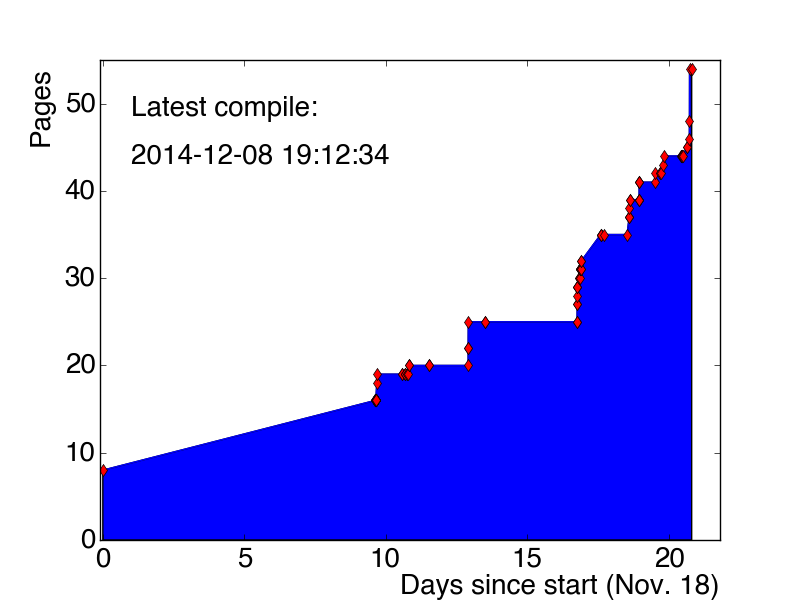
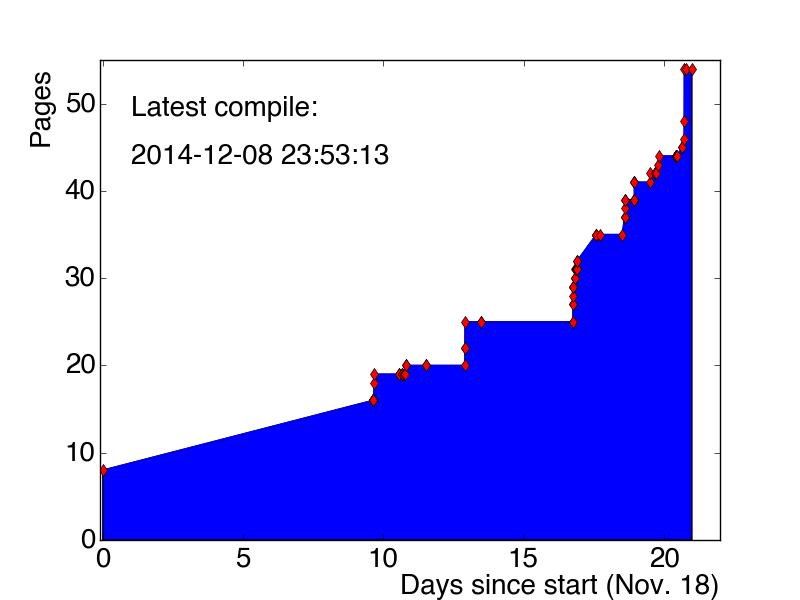
checkup

diff --git a/pages.md b/pages.md
@@ -95,3 +95,4 @@
 + [2014-12-08-17h19m34s] 48
 + [2014-12-08-17h24m04s] 54
 + [2014-12-08-19h12m34s] 54
++ [2014-12-08-23h53m13s] 54
